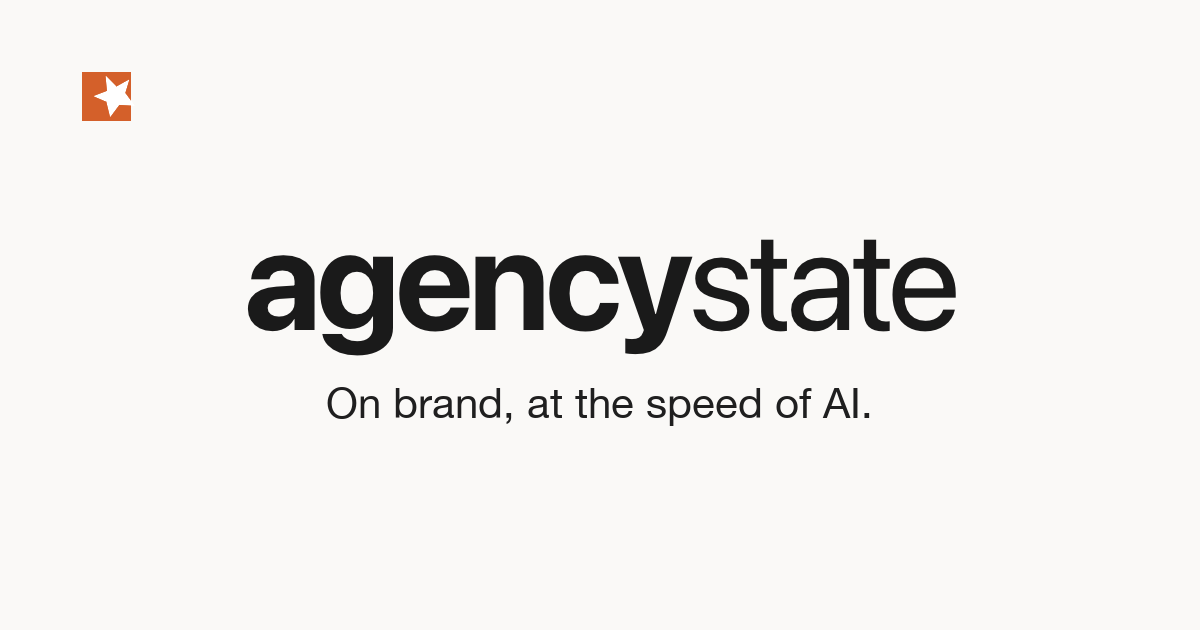
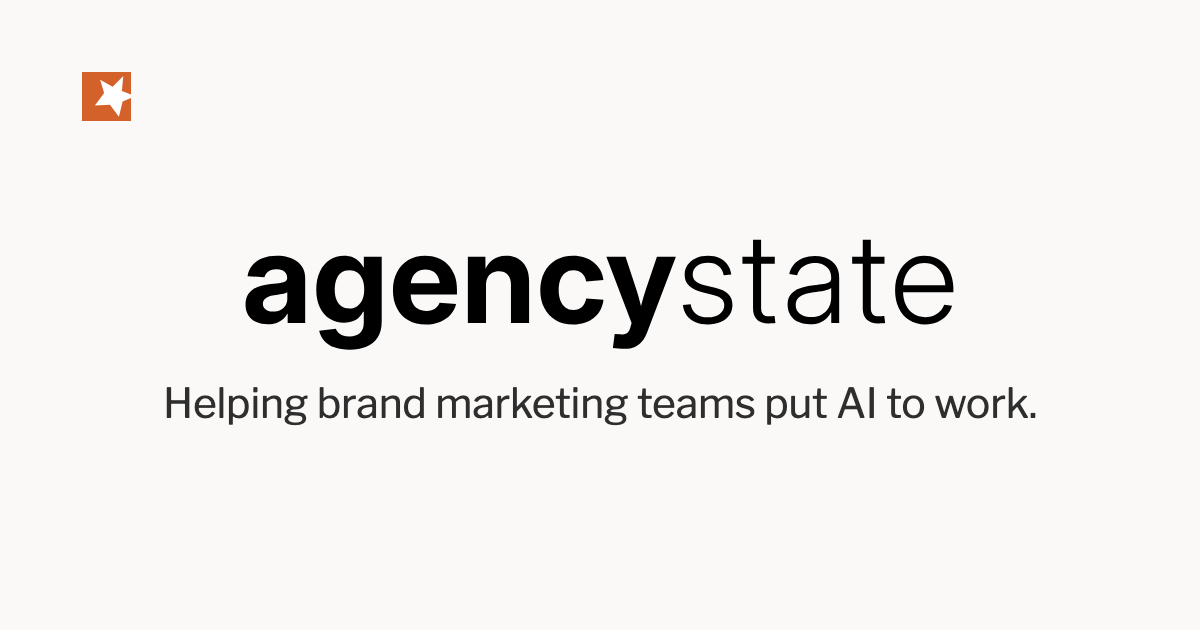
Social share card: the descriptor replaces the tagline
New og-image.png (same layout; current wordmark; Libre Franklin) with 'Helping brand
marketing teams put AI to work.' per guidelines v5.5. Image alt text updated on the
five pages that use it. Greg approved the card 2026-11-11.
Source: agency-state-practice projects/website/og-card/.

Changed region(s): [[0.185, 0.3619, 0.8017, 0.573], [0.1233, 0.6032, 0.8633, 0.6937], [0.0617, 0.1206, 0.1233, 0.181]]

diff --git a/brand-os.html b/brand-os.html
@@ -11,13 +11,13 @@
   <link rel="canonical" href="https://agencystate.ai/brand-os.html">
   <meta property="og:url" content="https://agencystate.ai/brand-os.html">
   <meta property="og:image" content="https://agencystate.ai/assets/og-image.png">
-  <meta property="og:image:alt" content="Agency State mark and wordmark with the tagline: On brand, at the speed of AI.">
+  <meta property="og:image:alt" content="Agency State mark and wordmark with the line: Helping brand marketing teams put AI to work.">
   <meta property="og:site_name" content="Agency State">
   <meta name="twitter:card" content="summary_large_image">
   <meta name="twitter:title" content="What is Brand OS?">
   <meta name="twitter:description" content="Agency State’s Brand OS connects an approved brand source with marketing production, checks, and people who review work and approve updates.">
   <meta name="twitter:image" content="https://agencystate.ai/assets/og-image.png">
-  <meta name="twitter:image:alt" content="Agency State mark and wordmark with the tagline: On brand, at the speed of AI.">
+  <meta name="twitter:image:alt" content="Agency State mark and wordmark with the line: Helping brand marketing teams put AI to work.">
   <link rel="icon" href="assets/agency-state-mark-orange.svg" type="image/svg+xml">
   <link rel="apple-touch-icon" href="assets/apple-touch-icon.png">
   <script async src="https://plausible.io/js/pa-vw1RCpq_0eKsUpTuUVVSi.js"></script>

diff --git a/context-is-not-control.html b/context-is-not-control.html
@@ -11,13 +11,13 @@
   <link rel="canonical" href="https://agencystate.ai/context-is-not-control.html">
   <meta property="og:url" content="https://agencystate.ai/context-is-not-control.html">
   <meta property="og:image" content="https://agencystate.ai/assets/og-image.png">
-  <meta property="og:image:alt" content="Agency State mark and wordmark with the tagline: On brand, at the speed of AI.">
+  <meta property="og:image:alt" content="Agency State mark and wordmark with the line: Helping brand marketing teams put AI to work.">
   <meta property="og:site_name" content="Agency State">
   <meta name="twitter:card" content="summary_large_image">
   <meta name="twitter:title" content="Context is not control">
   <meta name="twitter:description" content="Brand documents shaped how Claude&#x27;s copy sounded. They didn&#x27;t stop it from inventing a cooler.">
   <meta name="twitter:image" content="https://agencystate.ai/assets/og-image.png">
-  <meta name="twitter:image:alt" content="Agency State mark and wordmark with the tagline: On brand, at the speed of AI.">
+  <meta name="twitter:image:alt" content="Agency State mark and wordmark with the line: Helping brand marketing teams put AI to work.">
   <link rel="icon" href="assets/agency-state-mark-orange.svg" type="image/svg+xml">
   <link rel="apple-touch-icon" href="assets/apple-touch-icon.png">
   <script async src="https://plausible.io/js/pa-vw1RCpq_0eKsUpTuUVVSi.js"></script>

diff --git a/what-goes-into-a-codified-brand.html b/what-goes-into-a-codified-brand.html
@@ -11,13 +11,13 @@
   <link rel="canonical" href="https://agencystate.ai/what-goes-into-a-codified-brand.html">
   <meta property="og:url" content="https://agencystate.ai/what-goes-into-a-codified-brand.html">
   <meta property="og:image" content="https://agencystate.ai/assets/og-image.png">
-  <meta property="og:image:alt" content="Agency State mark and wordmark with the tagline: On brand, at the speed of AI.">
+  <meta property="og:image:alt" content="Agency State mark and wordmark with the line: Helping brand marketing teams put AI to work.">
   <meta property="og:site_name" content="Agency State">
   <meta name="twitter:card" content="summary_large_image">
   <meta name="twitter:title" content="A codified brand template">
   <meta name="twitter:description" content="The 46 entries I start from when preparing a brand for AI tools.">
   <meta name="twitter:image" content="https://agencystate.ai/assets/og-image.png">
-  <meta name="twitter:image:alt" content="Agency State mark and wordmark with the tagline: On brand, at the speed of AI.">
+  <meta name="twitter:image:alt" content="Agency State mark and wordmark with the line: Helping brand marketing teams put AI to work.">
   <link rel="icon" href="assets/agency-state-mark-orange.svg" type="image/svg+xml">
   <link rel="apple-touch-icon" href="assets/apple-touch-icon.png">
   <script async src="https://plausible.io/js/pa-vw1RCpq_0eKsUpTuUVVSi.js"></script>

diff --git a/brand-mcp.html b/brand-mcp.html
@@ -11,13 +11,13 @@
   <link rel="canonical" href="https://agencystate.ai/brand-mcp.html">
   <meta property="og:url" content="https://agencystate.ai/brand-mcp.html">
   <meta property="og:image" content="https://agencystate.ai/assets/og-image.png">
-  <meta property="og:image:alt" content="Agency State mark and wordmark with the tagline: On brand, at the speed of AI.">
+  <meta property="og:image:alt" content="Agency State mark and wordmark with the line: Helping brand marketing teams put AI to work.">
   <meta property="og:site_name" content="Agency State">
   <meta name="twitter:card" content="summary_large_image">
   <meta name="twitter:title" content="Serving your brand to AI tools">
   <meta name="twitter:description" content="How MCP serves each AI tool the part of the brand it needs.">
   <meta name="twitter:image" content="https://agencystate.ai/assets/og-image.png">
-  <meta name="twitter:image:alt" content="Agency State mark and wordmark with the tagline: On brand, at the speed of AI.">
+  <meta name="twitter:image:alt" content="Agency State mark and wordmark with the line: Helping brand marketing teams put AI to work.">
   <link rel="icon" href="assets/agency-state-mark-orange.svg" type="image/svg+xml">
   <link rel="apple-touch-icon" href="assets/apple-touch-icon.png">
   <script async src="https://plausible.io/js/pa-vw1RCpq_0eKsUpTuUVVSi.js"></script>

diff --git a/index.html b/index.html
@@ -11,13 +11,13 @@
   <link rel="canonical" href="https://agencystate.ai/">
   <meta property="og:url" content="https://agencystate.ai/">
   <meta property="og:image" content="https://agencystate.ai/assets/og-image.png">
-  <meta property="og:image:alt" content="Agency State mark and wordmark with the tagline: On brand, at the speed of AI.">
+  <meta property="og:image:alt" content="Agency State mark and wordmark with the line: Helping brand marketing teams put AI to work.">
   <meta property="og:site_name" content="Agency State">
   <meta name="twitter:card" content="summary_large_image">
   <meta name="twitter:title" content="Greg Appler - Agency State">
   <meta name="twitter:description" content="Helping brand marketing teams put AI to work.">
   <meta name="twitter:image" content="https://agencystate.ai/assets/og-image.png">
-  <meta name="twitter:image:alt" content="Agency State mark and wordmark with the tagline: On brand, at the speed of AI.">
+  <meta name="twitter:image:alt" content="Agency State mark and wordmark with the line: Helping brand marketing teams put AI to work.">
   <link rel="icon" href="assets/agency-state-mark-orange.svg" type="image/svg+xml">
   <link rel="apple-touch-icon" href="assets/apple-touch-icon.png">
   <script async src="https://plausible.io/js/pa-vw1RCpq_0eKsUpTuUVVSi.js"></script>
